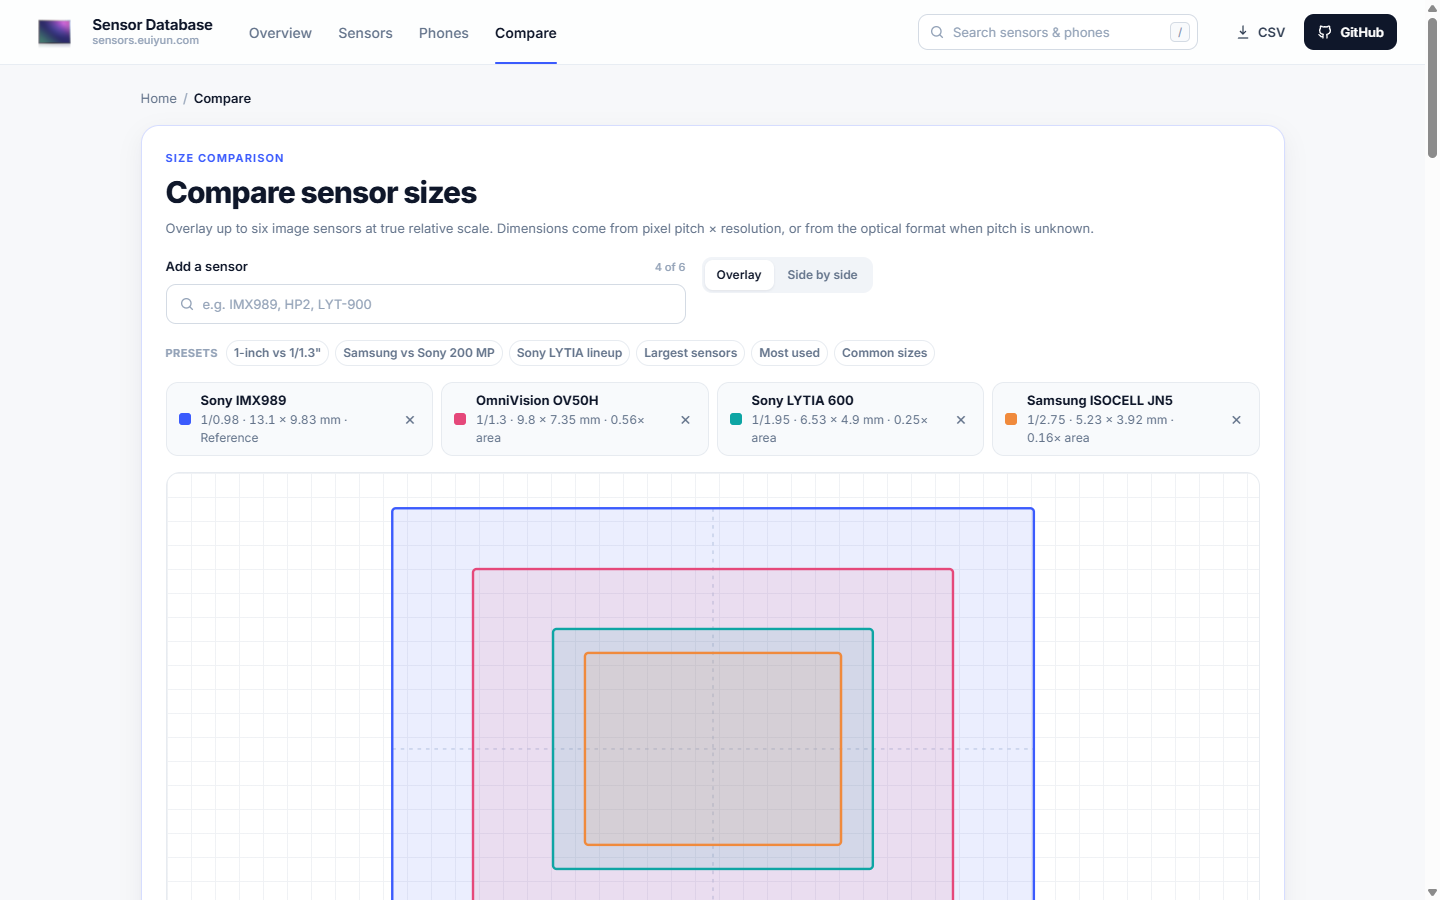
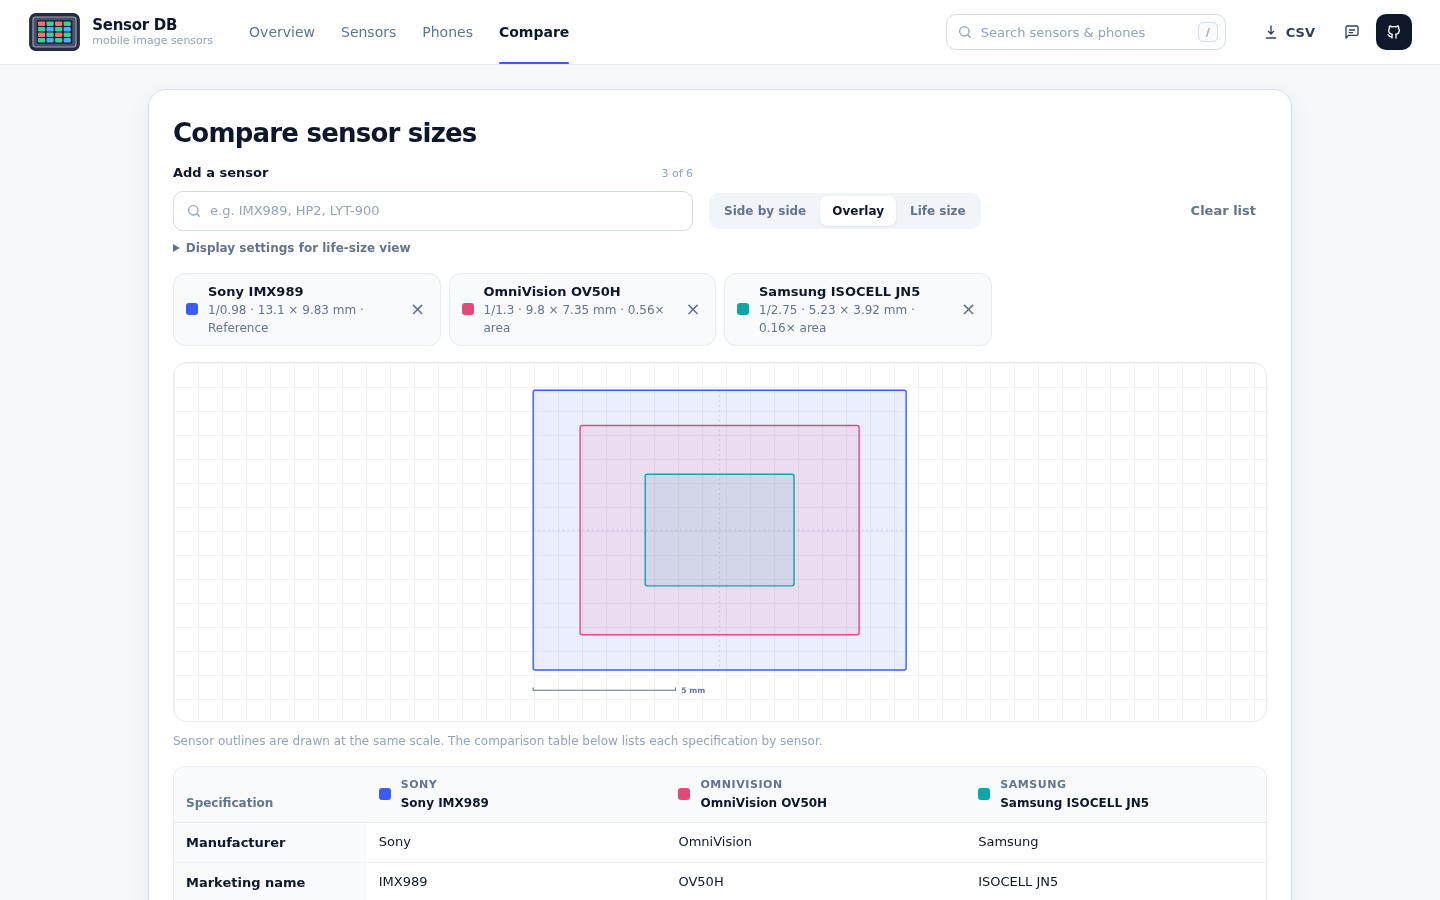
Replace product imagery with original sensor illustrations (#2)
Swap the vendor product render used for the logo, hero art and og:image
for self-drawn SVG artwork (Bayer pixel-array chip), redraw the favicon,
and refresh the README screenshots.

Claude-Session: https://claude.ai/code/session_01BoPKJVMBuXiGZm51zgTmk1

diff --git a/index.html b/index.html
@@ -14,7 +14,7 @@
     <meta property="og:title" content="Mobile Image Sensor Database" />
     <meta property="og:description" content="Explore mobile image sensor trends, specifications and manufacturer coverage." />
     <meta property="og:url" content="https://sensors.euiyun.com/" />
-    <meta property="og:image" content="https://sensors.euiyun.com/images/image-sensor.png" />
+    <meta property="og:image" content="https://sensors.euiyun.com/images/sensor-chip.png" />
     <meta name="twitter:card" content="summary" />
     <link rel="icon" type="image/svg+xml" href="/favicon.svg" />
     <link rel="preconnect" href="https://fonts.googleapis.com" />
@@ -27,7 +27,7 @@
     <header class="topbar">
       <div class="topbar-inner">
         <a class="brand" href="/" aria-label="Sensor DB home">
-          <span class="brand-mark" aria-hidden="true"><img src="/images/image-sensor-logo.webp" alt="" width="96" height="72" /></span>
+          <span class="brand-mark" aria-hidden="true"><img src="/images/logo-mark.svg" alt="" width="96" height="72" /></span>
           <span class="brand-text"><strong>Sensor DB</strong><span>mobile image sensors</span></span>
         </a>
         <nav class="site-nav" aria-label="Main navigation"><a class="is-current" href="/" aria-current="page">Overview</a><a href="/sensors/">Sensors</a><a href="/phones/">Phones</a><a href="/compare/">Compare</a></nav>
@@ -56,7 +56,7 @@
           <a class="button button-primary" href="/sensors/">Explore sensors <span aria-hidden="true">→</span></a>
           <a class="text-link overview-phone-link" href="/phones/">Browse phones and their sensors <span aria-hidden="true">→</span></a>
         </div>
-        <figure class="sensor-art"><div class="sensor-art-frame"><img src="/images/image-sensor.webp" fetchpriority="high" alt="Representative mobile image sensor chip" width="448" height="336" /></div><figcaption class="sensor-art-caption">MOBILE IMAGE SENSOR</figcaption></figure>
+        <figure class="sensor-art"><div class="sensor-art-frame"><img src="/images/sensor-chip.svg" fetchpriority="high" alt="Illustration of a mobile image sensor chip" width="480" height="360" /></div><figcaption class="sensor-art-caption">MOBILE IMAGE SENSOR</figcaption></figure>
       </section>
 
       <section class="stats overview-stats" aria-label="Catalog summary">

diff --git a/src/style.css b/src/style.css
@@ -217,8 +217,8 @@ svg { flex: 0 0 auto; }
 .overview-phone-link { display: inline-flex; align-items: center; gap: 5px; margin-left: 20px; color: #dbe3f4; font-size: 14px; font-weight: 600; text-decoration: none; }
 .overview-phone-link:hover { color: #fff; }
 .sensor-art { display: grid; justify-items: center; gap: 12px; margin: 0; }
-.sensor-art-frame { width: 180px; aspect-ratio: 4 / 3; overflow: hidden; border: 1px solid rgba(255, 255, 255, .14); border-radius: 22px; background: #fff; box-shadow: 0 0 0 10px rgba(255, 255, 255, .05), 0 40px 80px rgba(0, 0, 0, .5), 0 0 120px rgba(129, 140, 248, .35); transform: perspective(900px) rotateY(-14deg) rotateX(6deg); }
-.sensor-art-frame img { display: block; width: 100%; height: 100%; object-fit: cover; transform: scale(1.3); }
+.sensor-art-frame { width: 180px; aspect-ratio: 4 / 3; overflow: hidden; border: 1px solid rgba(255, 255, 255, .14); border-radius: 22px; background: #0b1022; box-shadow: 0 0 0 10px rgba(255, 255, 255, .05), 0 40px 80px rgba(0, 0, 0, .5), 0 0 120px rgba(129, 140, 248, .35); transform: perspective(900px) rotateY(-14deg) rotateX(6deg); }
+.sensor-art-frame img { display: block; width: 100%; height: 100%; object-fit: cover; transform: scale(1.2); }
 .sensor-art-caption { color: #7c8aa5; font-size: 10px; font-weight: 600; letter-spacing: .22em; }
 
 .stats { display: grid; grid-template-columns: repeat(4, minmax(0, 1fr)); gap: 14px; margin: 18px 0; }

diff --git a/sensors/index.html b/sensors/index.html
@@ -14,7 +14,7 @@
     <meta property="og:title" content="Sensor Catalog · Mobile Image Sensor Database" />
     <meta property="og:description" content="Search, filter and compare mobile image sensors and the phones that use them." />
     <meta property="og:url" content="https://sensors.euiyun.com/sensors/" />
-    <meta property="og:image" content="https://sensors.euiyun.com/images/image-sensor.png" />
+    <meta property="og:image" content="https://sensors.euiyun.com/images/sensor-chip.png" />
     <meta name="twitter:card" content="summary" />
     <link rel="icon" type="image/svg+xml" href="/favicon.svg" />
     <link rel="preconnect" href="https://fonts.googleapis.com" />
@@ -27,7 +27,7 @@
     <header class="topbar">
       <div class="topbar-inner">
         <a class="brand" href="/" aria-label="Sensor DB home">
-          <span class="brand-mark" aria-hidden="true"><img src="/images/image-sensor-logo.webp" alt="" width="96" height="72" /></span>
+          <span class="brand-mark" aria-hidden="true"><img src="/images/logo-mark.svg" alt="" width="96" height="72" /></span>
           <span class="brand-text"><strong>Sensor DB</strong><span>mobile image sensors</span></span>
         </a>
         <nav class="site-nav" aria-label="Main navigation"><a href="/">Overview</a><a class="is-current" href="/sensors/" aria-current="page">Sensors</a><a href="/phones/">Phones</a><a href="/compare/">Compare</a></nav>

diff --git a/phones/index.html b/phones/index.html
@@ -14,7 +14,7 @@
     <meta property="og:title" content="Phone Catalog · Mobile Image Sensor Database" />
     <meta property="og:description" content="Browse smartphones and see the image sensors used by each camera." />
     <meta property="og:url" content="https://sensors.euiyun.com/phones/" />
-    <meta property="og:image" content="https://sensors.euiyun.com/images/image-sensor.png" />
+    <meta property="og:image" content="https://sensors.euiyun.com/images/sensor-chip.png" />
     <meta name="twitter:card" content="summary" />
     <link rel="icon" type="image/svg+xml" href="/favicon.svg" />
     <link rel="preconnect" href="https://fonts.googleapis.com" />
@@ -27,7 +27,7 @@
     <header class="topbar">
       <div class="topbar-inner">
         <a class="brand" href="/" aria-label="Sensor DB home">
-          <span class="brand-mark" aria-hidden="true"><img src="/images/image-sensor-logo.webp" alt="" width="96" height="72" /></span>
+          <span class="brand-mark" aria-hidden="true"><img src="/images/logo-mark.svg" alt="" width="96" height="72" /></span>
           <span class="brand-text"><strong>Sensor DB</strong><span>mobile image sensors</span></span>
         </a>
         <nav class="site-nav" aria-label="Main navigation"><a href="/">Overview</a><a href="/sensors/">Sensors</a><a class="is-current" href="/phones/" aria-current="page">Phones</a><a href="/compare/">Compare</a></nav>

diff --git a/scripts/build_site.py b/scripts/build_site.py
@@ -318,7 +318,7 @@ write('/open-data/',page('/open-data/','Open data & API | Mobile Image Sensor Da
 site_og=write_og('/og/site.png','Open image sensor database','Mobile Image Sensor Database',[(f'{len(sensors)} sensors · {len(phones)} phones',True),('Specs, adoption trends and size comparisons',False),('Every record linked to its source',False)],[(sensor_name(sensor_by_id[i]),*sensor_dims[i]) for i in ('SONY:IMX989','OMNIVISION:OV50H','SONY:IMX882') if i in sensor_by_id and sensor_dims[i]])
 site_ld={'@context':'https://schema.org','@type':'WebSite','name':'Mobile Image Sensor Database','url':SITE+'/','inLanguage':'en','copyrightYear':2026,'copyrightHolder':{'@type':'Person','name':'geniuskey','url':'https://github.com/geniuskey'},'potentialAction':{'@type':'SearchAction','target':{'@type':'EntryPoint','urlTemplate':SITE+'/sensors/?q={search_term_string}'},'query-input':'required name=search_term_string'}}
 for f,extra in (('index.html',ld(site_ld)+ld(dataset_ld)),('sensors/index.html',''),('phones/index.html','')):
-    h=re.sub(r'<footer class="page-footer">.*?</footer>',lambda _:FOOTER,(DIST/f).read_text(encoding='utf-8'),count=1,flags=re.S).replace(SITE+'/images/image-sensor.png',site_og).replace('<meta name="twitter:card" content="summary" />','<meta name="twitter:card" content="summary_large_image" />\n    <meta property="og:image:width" content="1200" />\n    <meta property="og:image:height" content="630" />')
+    h=re.sub(r'<footer class="page-footer">.*?</footer>',lambda _:FOOTER,(DIST/f).read_text(encoding='utf-8'),count=1,flags=re.S).replace(SITE+'/images/sensor-chip.png',site_og).replace('<meta name="twitter:card" content="summary" />','<meta name="twitter:card" content="summary_large_image" />\n    <meta property="og:image:width" content="1200" />\n    <meta property="og:image:height" content="630" />')
     (DIST/f).write_text(h.replace('</head>',f'    {extra}\n  </head>',1) if extra else h,encoding='utf-8')
 
 nf_body='''<section class="detail-panel not-found">
